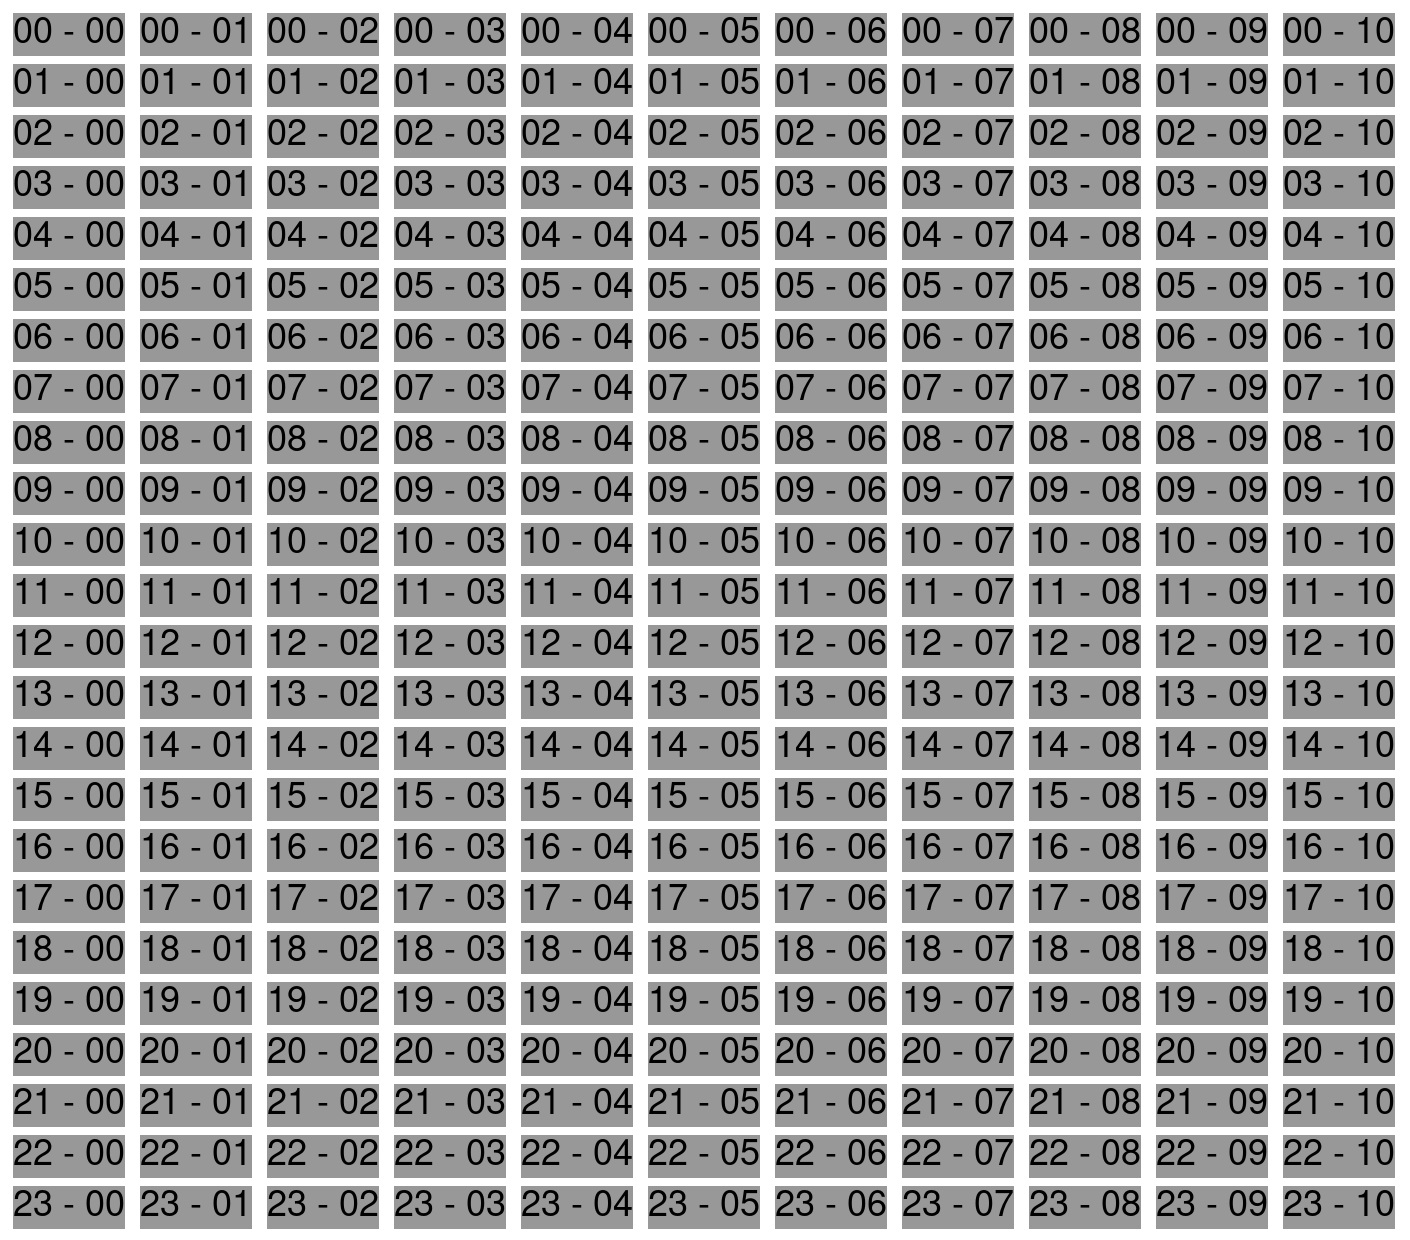
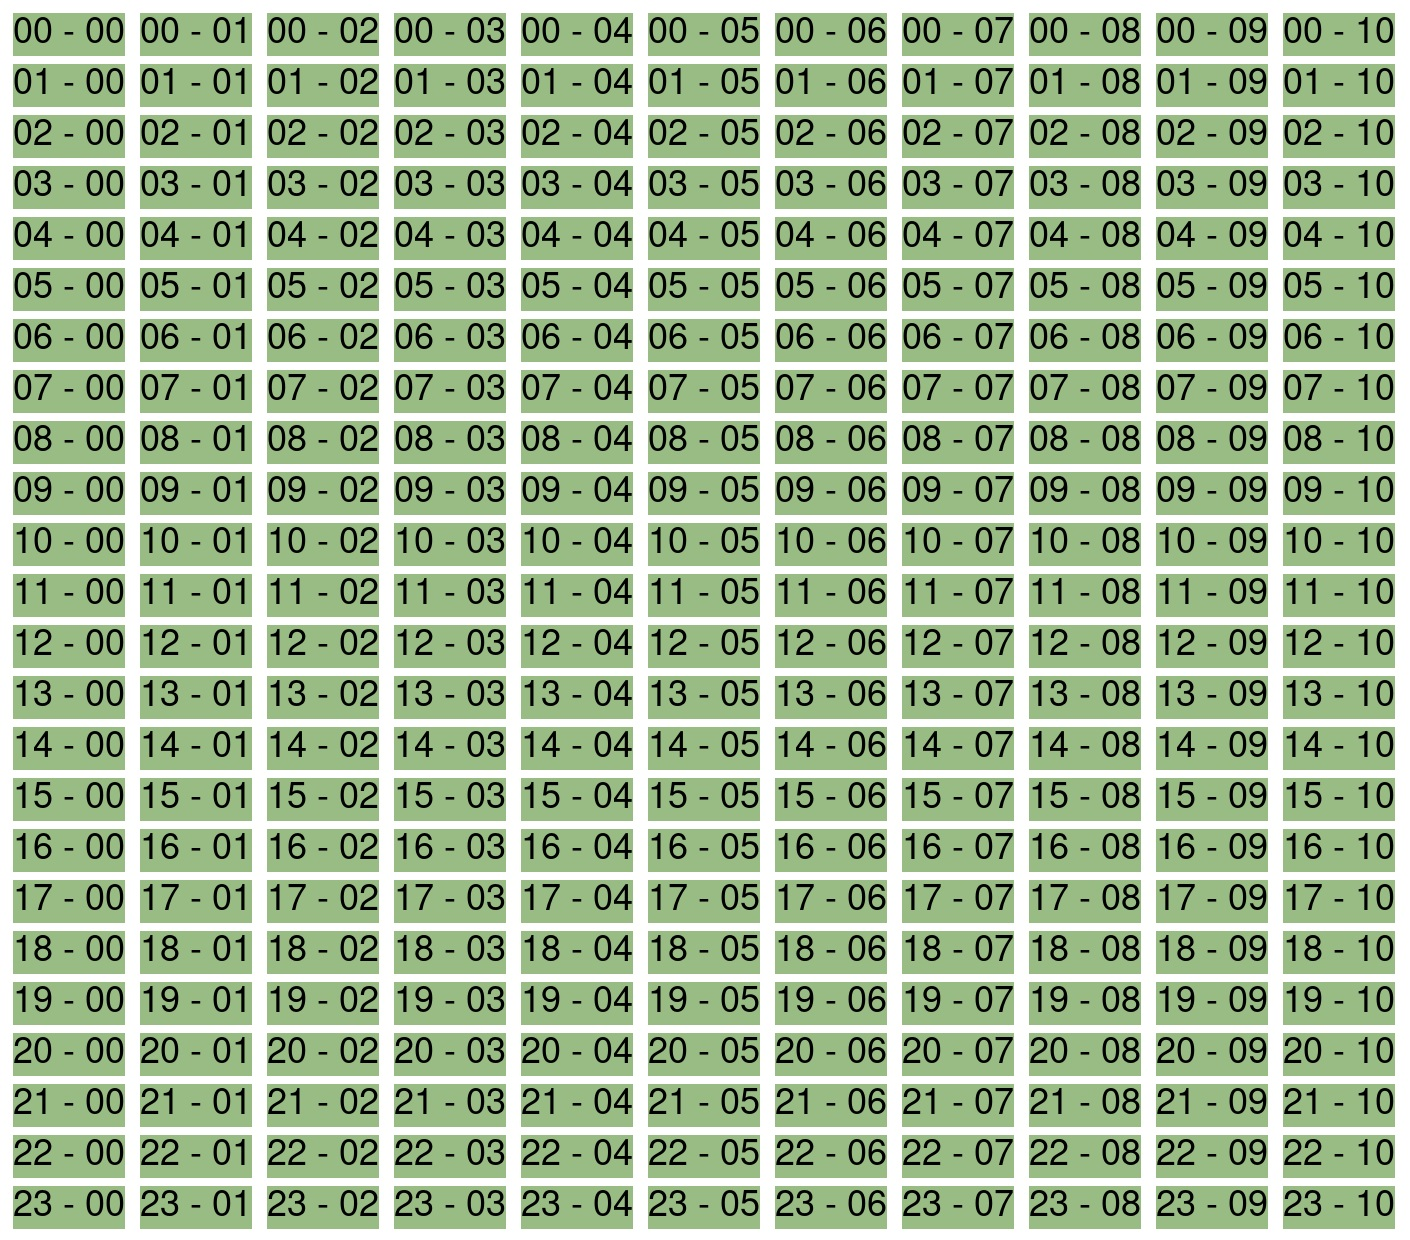
solo un po' il colore modificato, ma poco

diff --git a/Prova hex cose/Test_Hexa_Numerato/hex-test-numerato.css b/Prova hex cose/Test_Hexa_Numerato/hex-test-numerato.css
@@ -13,7 +13,7 @@
 
 .container div {
   display: inline-block;
-  background: rgba(141, 211, 100, 0.541);
+  background: rgba(65, 131, 27, 0.541);
   margin: 5px;
   margin-right: 0px;
   margin-bottom: 3px;
